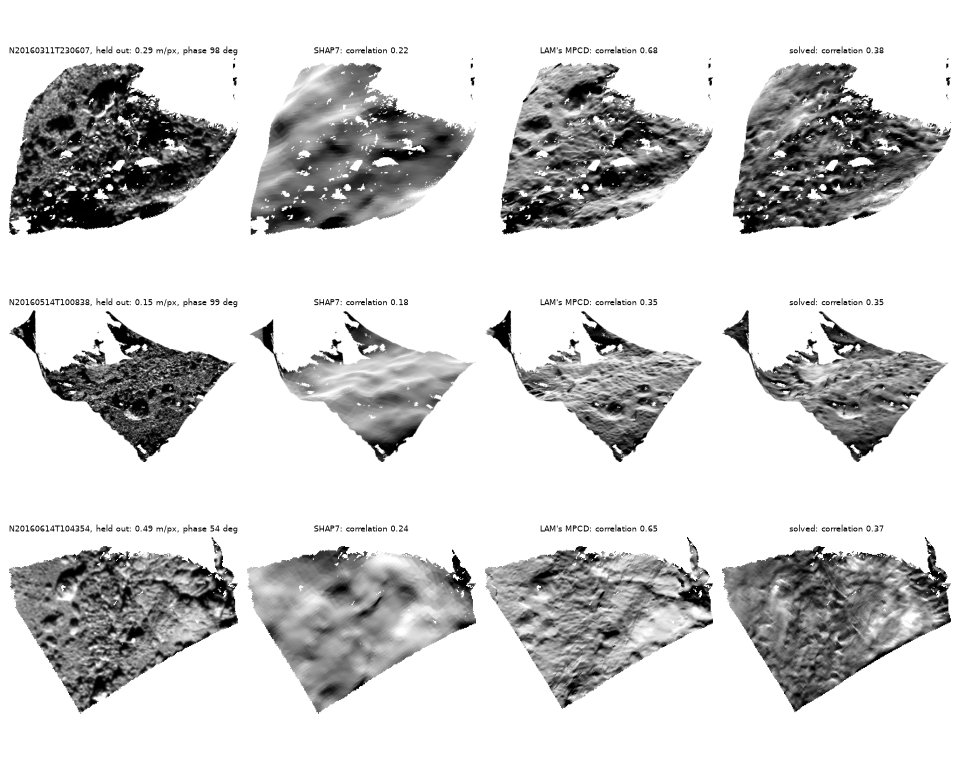
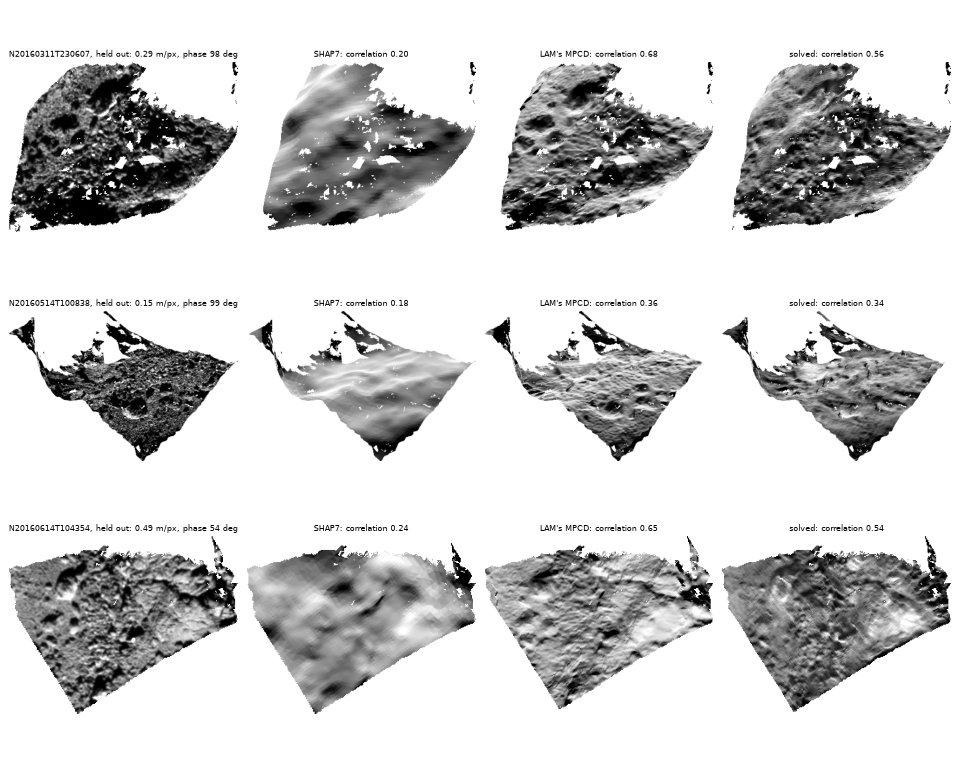
kalast.shape: each image weighs 1 - 0.75 cos(i), as SPC weighs them (incidence_weight, the default) -- a high Sun's images turned albedo into false relief that the low Sun's disagreed with; 67P held out 0.36 to 0.44, past LAM's MPCD at 0.41, and from MPCD the solver no longer leaves it; View(weight=

diff --git a/src/shape/solve.rs b/src/shape/solve.rs
@@ -62,6 +62,12 @@ pub struct Options {
     pub albedo_sigma: F,
     /// An offset per view as well as a scale: a background, a coma.
     pub offset: bool,
+    /// Each view weighs `1 - incidence_weight cos(i)`, `i` its Sun's
+    /// incidence on the maplet, as SPC weighs its images: under a high Sun
+    /// the shading says little of the slopes and much of the albedo, and an
+    /// albedo held near its neighbours' is read as slopes -- false relief
+    /// that a low Sun's images then disagree with. 0 for every view alike.
+    pub incidence_weight: F,
     /// What is darker than this share of its view's median is taken for a
     /// shadow the maplet does not cast -- from terrain beyond it, or relief
     /// it does not have yet -- and left out: read as slopes, an unmodelled
@@ -108,6 +114,7 @@ impl Default for Options {
             slope_sigma: 0.5,
             albedo_sigma: 0.3,
             offset: false,
+            incidence_weight: 0.75,
             dark: 0.1,
             direct: true,
             curvature: 0.002,
@@ -294,7 +301,7 @@ fn setup(view: &View, work: &Maplet, law: &Law, options: &Options, coarse: bool)
         pixel,
         window,
         radius,
-        weight: (s / pixel).powi(2).min(1.0),
+        weight: (s / pixel).powi(2).min(1.0) * view.weight * (1.0 - options.incidence_weight * w.dot(view.sun)).max(0.0),
     })
 }
 
@@ -323,8 +330,11 @@ fn look(view: &View, setup: &Setup, work: &Maplet, points: &[V3], normals: &[V3]
             let alpha = view.sun.dot(to_camera).clamp(-1.0, 1.0).acos();
             out.law[k] = setup.table.eval(mu0, mu, alpha).0;
         }
-        out.usable[k] = lit[k] && seen[k] && mu0 >= cos_i && mu >= cos_e && out.law[k] > 0.0;
-        out.shown[k] = seen[k] && mu >= cos_e;
+        // Where the shape model has no surface under the grid -- beyond a
+        // lobe's edge -- the heights are only filled in: nothing to compare.
+        let known = work.reference[k].is_finite();
+        out.usable[k] = known && lit[k] && seen[k] && mu0 >= cos_i && mu >= cos_e && out.law[k] > 0.0;
+        out.shown[k] = known && seen[k] && mu >= cos_e;
         out.lit[k] = lit[k] && mu0 > 0.0;
     }
     out
@@ -403,12 +413,20 @@ fn search_wide(view: &View, setup: &Setup, look: &Look, model: &[F], n: usize, s
         (model.to_vec(), mask.clone())
     };
     let m = (sg.round() as usize).max(1);
-    let points: Vec<usize> = (0..len).filter(|&k| (k % n).is_multiple_of(m) && (k / n).is_multiple_of(m) && mask[k] > 0.0 && weight[k] > 0.5).collect();
+    let [x0, y0, x1, y1] = setup.window;
+    let crop = Crop::new(view, x0, y0, x1, y1, sigma.max(0.35 * s / setup.pixel))?;
+    // On the image, from where the search starts give or take its reach.
+    let inside = |k: usize| {
+        let (x, y) = (look.xy[k][0] + start[0], look.xy[k][1] + start[1]);
+        x >= x0 - radius && x <= x1 + radius && y >= y0 - radius && y <= y1 + radius
+            && x >= -radius && y >= -radius && x <= view.width as F + radius && y <= view.height as F + radius
+    };
+    let points: Vec<usize> = (0..len)
+        .filter(|&k| (k % n).is_multiple_of(m) && (k / n).is_multiple_of(m) && mask[k] > 0.0 && weight[k] > 0.5 && inside(k))
+        .collect();
     if points.len() < 30 {
         return None;
     }
-    let [x0, y0, x1, y1] = setup.window;
-    let crop = Crop::new(view, x0, y0, x1, y1, sigma.max(0.35 * s / setup.pixel))?;
     let r = (radius / step).ceil() as i64;
     let mut best = (F::NEG_INFINITY, start);
     let (mut o, mut mm) = (Vec::with_capacity(points.len()), Vec::with_capacity(points.len()));
@@ -423,7 +441,7 @@ fn search_wide(view: &View, setup: &Setup, look: &Look, model: &[F], n: usize, s
                     mm.push(smooth[k]);
                 }
             }
-            if o.len() * 2 < points.len() {
+            if o.len() < 30 || o.len() * 4 < points.len() {
                 continue;
             }
             let c = correlation(&o, &mm);
@@ -449,8 +467,13 @@ fn register(
     offset_too: bool,
 ) -> Option<([F; 2], F, F)> {
     // The points seen, lit or in the maplet's shadow, the model nothing
-    // there: the shadows' pattern registers as well as the shading.
-    let points: Vec<usize> = (0..model.len()).filter(|&k| look.shown[k] && look.xy[k][0].is_finite()).collect();
+    // there: the shadows' pattern registers as well as the shading. Those
+    // on the image's valid pixels: a maplet wider than the image -- a
+    // context around a close image's footprint -- falls mostly beyond it.
+    let points: Vec<usize> = (0..model.len())
+        .filter(|&k| look.shown[k] && look.xy[k][0].is_finite())
+        .filter(|&k| setup.crop.sample(look.xy[k][0] + start[0], look.xy[k][1] + start[1]).is_some())
+        .collect();
     if points.iter().filter(|&&k| model[k] > 0.0).count() < 30 {
         return None;
     }
@@ -1079,6 +1102,7 @@ mod tests {
             focal: distance / pixel,
             centre: [size as F / 2.0, size as F / 2.0],
             sun: sun.normalize(),
+            weight: 1.0,
         }
     }
 

diff --git a/src/shape/py.rs b/src/shape/py.rs
@@ -28,6 +28,9 @@ fn err(e: String) -> PyErr {
 /// beyond it, terrain beyond it between it and the camera (a render of the
 /// shape model in this geometry has both: its lit pixels whose facet is
 /// among `Maplet.facets`) -- and stars, hot pixels, saturation.
+///
+/// `weight`, 1 by default, the view's share against the others: a fraction
+/// each for images taken seconds apart under one geometry.
 #[pyclass(name = "View", module = "kalast.shape", from_py_object)]
 #[derive(Clone)]
 pub struct View {
@@ -37,7 +40,7 @@ pub struct View {
 #[pymethods]
 impl View {
     #[new]
-    #[pyo3(signature = (image, position, axes, focal, sun, centre=None, valid=None, name=String::new()))]
+    #[pyo3(signature = (image, position, axes, focal, sun, centre=None, valid=None, name=String::new(), weight=1.0))]
     #[allow(clippy::too_many_arguments)]
     fn new(
         image: PyArrayLike2<'_, f32, AllowTypeChange>,
@@ -48,6 +51,7 @@ impl View {
         centre: Option<[f64; 2]>,
         valid: Option<PyArrayLike2<'_, u8, AllowTypeChange>>,
         name: String,
+        weight: f64,
     ) -> PyResult<Self> {
         let a = image.as_array();
         let (height, width) = (a.shape()[0], a.shape()[1]);
@@ -74,6 +78,7 @@ impl View {
             focal,
             centre: centre.unwrap_or([0.5 * width as f64, 0.5 * height as f64]),
             sun: sun.normalize_or_zero(),
+            weight,
         };
         inner.check().map_err(err)?;
         Ok(View { inner })
@@ -363,13 +368,16 @@ impl Maplet {
     /// `search` pixels away, or `reach` in the surface's unit if farther;
     /// `follow` moves the maplet where the views' pointing puts it. What is
     /// darker than `dark` of its view's lit ground is taken for a shadow the
-    /// maplet does not cast. Angles in radians. See
+    /// maplet does not cast. Each view weighs `1 - incidence_weight
+    /// cos(i)`, `i` its Sun's incidence on the maplet, as SPC weighs its
+    /// images: a high Sun's shading says more of the albedo than of the
+    /// slopes. Angles in radians. See
     /// `notes/2026-10-14_shape_from_images/` and
     /// `notes/2026-10-15_shape_direct/`.
     #[pyo3(signature = (
         views, law, iterations=6, levels=1, anchor=0.0, register=true, search=4.0, follow=true, reach=0.0, resolution=2.0,
         incidence=80.0 * super::RPD, emission=75.0 * super::RPD,
-        slope_sigma=0.5, albedo_sigma=0.3, offset=false, dark=0.1, direct=true, curvature=0.002, softness=0.6, shadows=1.0, stereo=1.0,
+        slope_sigma=0.5, albedo_sigma=0.3, offset=false, incidence_weight=0.75, dark=0.1, direct=true, curvature=0.002, softness=0.6, shadows=1.0, stereo=1.0,
         verbose=false
     ))]
     #[allow(clippy::too_many_arguments)]
@@ -391,6 +399,7 @@ impl Maplet {
         slope_sigma: f64,
         albedo_sigma: f64,
         offset: bool,
+        incidence_weight: f64,
         dark: f64,
         direct: bool,
         curvature: f64,
@@ -415,6 +424,7 @@ impl Maplet {
             slope_sigma,
             albedo_sigma,
             offset,
+            incidence_weight,
             dark,
             direct,
             curvature,

diff --git a/src/shape/view.rs b/src/shape/view.rs
@@ -36,6 +36,10 @@ pub struct View {
     pub centre: [F; 2],
     /// Toward the Sun from the surface, a unit vector in the body's frame.
     pub sun: V3,
+    /// The view's weight against the others, 1 by default: a share of it
+    /// for each of several images taken under one geometry, so that seconds
+    /// apart they count as one.
+    pub weight: F,
 }
 
 impl View {
@@ -88,6 +92,9 @@ impl View {
         }
         if !self.position.is_finite() {
             return Err(format!("view {name}: the camera's position is not finite"));
+        }
+        if !(self.weight >= 0.0 && self.weight.is_finite()) {
+            return Err(format!("view {name}: the weight is {}", self.weight));
         }
         Ok(())
     }
@@ -379,6 +386,7 @@ mod tests {
             focal: 100.0,
             centre: [50.0, 40.0],
             sun: V3::Z,
+            weight: 1.0,
         };
         view.check().unwrap();
         let (x, y, d) = view.project(V3::new(1.0, -0.5, 0.0)).unwrap();

diff --git a/notes/2026-10-15_shape_direct/README.md b/notes/2026-10-15_shape_direct/README.md
@@ -112,21 +112,27 @@ before. Scored on the held-out images where LAM's MPCD model of Abydos
 (0.4 m, Capanna et al.) covers the maplet, each model registered on each
 image on its own:
 
-| model | held out, median correlation |
-|---|---|
-| SHAP7 | 0.21-0.24 |
-| point by point at 0.25 m, 14 October | 0.34 |
-| fitted directly at 0.5 m, every year | 0.35 |
-| **fitted directly at 0.5 m, 2014 and 2016** | **0.36** |
-| LAM's MPCD | 0.40 |
+| model | held out, median correlation | at the model's scale |
+|---|---|---|
+| SHAP7 | 0.21-0.24 | 0.23 |
+| point by point at 0.25 m, 14 October | 0.34 | |
+| fitted directly at 0.5 m, every year | 0.35 | |
+| fitted directly at 0.5 m, 2014 and 2016 | 0.36 | 0.39 |
+| **the same, each image weighed by its Sun's incidence (below)** | **0.44** | **0.47** |
+| LAM's MPCD | 0.40-0.41 | 0.45 |
+
+"At the model's scale": the image and each drawing smoothed to half a
+spacing first, as SPC scores its models; at the images' own pixels every
+model loses what no 0.5 m grid holds.
 
 ![Three held-out images, SHAP7, LAM's MPCD and the solution drawn in them](wosret_held_out.jpg)
 
 `solve(..., iterations=12, levels=3, offset=True, reach=0.012,
 albedo_sigma=0.05, curvature=0.02)` on a maplet of 120 m at 0.5 m, 209
-images, 82 s. The solution draws the pits
-SHAP7 smooths over; MPCD draws them sharper, and its rims and scarps, where
-the solution is grainy.
+images, 60 s. The solution draws the pits SHAP7 smooths over, as MPCD does;
+MPCD's are sharper on 11 March and 14 June (0.65-0.67 against 0.52-0.55),
+the solution's closer on 13 December 2014 and 21 August 2016 (0.43-0.45
+against 0.40, 0.27 against 0.16).
 
 - **2015's images** cost a little (0.35 against 0.36 without them): the
   surface around perihelion, or their pointing at 100-200 km. 2016's alone,
@@ -144,10 +150,57 @@ the solution is grainy.
   does not see worse, 14 June's 0.48-0.58 to 0.35-0.47 at the same phase.
   Not the shadows' term (0.37 without), nor the parallax (0.37), nor the
   law's roughness (theta-bar halved, 0.36 from SHAP7 as at 24 deg): the
-  albedo frozen, 0.31; each view's shift frozen once found, 0.39. The
-  shifts and the heights fitting each other is part of it; what remains
-  is open. MPCD was likely built from these images, so its 0.40 is an
-  upper bound more than a held-out score.
+  albedo frozen, 0.31; each view's shift frozen once found, 0.39. MPCD
+  was likely built from these images, so its 0.40 is an upper bound more
+  than a held-out score.
+
+## Images under a high Sun
+
+What drew the solver away from MPCD, found by solving from MPCD with half
+the images each:
+
+| from MPCD, solved with | 5 March's fit (low Sun, 27 deg up, from the east) |
+|---|---|
+| nothing, MPCD itself | 0.57-0.63 |
+| the images at phase above 80 deg, the Sun low | 0.59 |
+| the images at phase below 70 deg, the Sun high | 0.36 |
+
+7-9 June's 21 images have the Sun 60 deg up: their shading barely moves with
+the slopes, and the albedo's real patches -- held near the neighbours' --
+are fitted as slopes, large ones for so little shading. That false relief
+is what a low Sun's images disagree with: the pits of 5 and 11 March, the
+14 June scarp. SPC weighs its images by `1 - 0.75 cos(i)` for this:
+`incidence_weight=0.75`, now the default, the Sun's incidence at the
+maplet's normal. A Sun 60 deg up weighs 0.35, one 27 deg up 0.66.
+
+- Held out, 0.36 to **0.44** (0.39 to 0.47 at the model's scale): past
+  MPCD's 0.41 (0.45). The weight is SPC's, not fitted to these images.
+- From MPCD, the solver no longer leaves it: 0.40 to 0.42 (0.44 to 0.48).
+- On the synthetic Wosret, pointed 6 m off, unchanged where the truth is
+  known: the relief's correlation 0.712 and 0.713, held out 0.73 and 0.75.
+- The albedo must stay held: freed (`albedo_sigma` 0.3) with the same
+  weights, 0.28.
+
+What did not help, tried first: each view's noise a fixed share of its lit
+ground rather than its residuals' spread (0.26); images seconds apart
+sharing one weight (0.35); images at 0.5 m a pixel or coarser only, MPCD's
+choice (0.34, 0.40 at the model's scale), with the albedo frozen as MPCD
+has it (0.27); no offset (0.35); fewer passes (0.30).
+
+## Each image's pointing from its whole footprint
+
+The review's first item, tried: every image registered once on a context of
+SHAP7 around the patch -- 600 m at 0.5 m, 1 km at 1 m for the coarser --
+over every lit pixel, then held fixed in the solve. 448 of 456 register,
+correlation 0.61; the corrections grow with distance, 5 m on the ground at
+0.05-0.3 m a pixel to 16 m at 2-5 m a pixel, and pairs seconds apart agree
+within a pixel, 1-3 pixels after a slew. But SHAP7 is too smooth to place
+the finest images -- pairs seconds apart disagree by 2-10 pixels there --
+and solved with every pointing held, 0.28. The registration in the solve,
+on the maplet as it grows, stays; the context places the coarse images.
+`solve` now leaves out points where the shape model has no surface under
+the grid, and a view's search counts only the points on its valid pixels:
+a maplet wider than a close image registers it.
 
 ## What the published models did that this does not
 
@@ -195,16 +248,14 @@ whose per-image offsets come on last).
 
 ## Open
 
-In order, from the review:
-
-1. Each image's pointing from its whole footprint against the global model,
-   under SPICE's priors and smooth in time, fixed during the height solve,
-   re-estimated in an outer loop.
-2. The images thinned to diverse geometry and binned to the grid's scale.
-3. The score at the model's scale, and split-data rebuilds.
-4. Facet normals, an edge-preserving prior, the offset and albedo held.
-5. 2016 alone with a looser reference, against the post-perihelion surface.
-6. Shadows that grow their casters.
+1. The weights chosen on these held-out images from here on want a second
+   set of days to choose on: split-data rebuilds, as Park et al. (2019).
+2. Facet normals and an edge-preserving prior: MPCD's rims are still the
+   sharper on 11 March and 14 June.
+3. Each image's pointing from many landmarks, as SPC: maplets around this
+   one, each image's correction shared by those it covers.
+4. 2016 alone with a looser reference, against the post-perihelion surface.
+5. Shadows that grow their casters.
 
 The pipeline stays in scratch until it reaches LAM's model; then the
 example. The coarser images' rows are kept in

diff --git a/CHANGELOG.md b/CHANGELOG.md
@@ -15,7 +15,7 @@ released, and the gate refuses the tag until it has.
 - `examples/didymos/main.py` draws Didymos and Dimorphos under the Hapke law Buratti et al. (2024) fitted to DART's images of the system, the light linear (`srgb_mode = "linear"`) and an exposure of 5.
 - `examples/comet67p_shadows_fit`: `hapke-fit` through the NAC's response (`response`) is 8 % brighter, w 0.0385: the response's halo takes light off lit ground, and the law was fitted without it.
 - `examples/comet67p_shadows_fit` downloads its images from ESA's Planetary Science Archive, which answers in a second where NASA's PDS Small Bodies Node took 16 and reset transfers.
-- `kalast.shape` derives a surface's relief finer than its shape model from the images that see it: `Maplet.from_surface` lays a grid of heights over a patch of the model, and `solve` registers every image to it and fits the heights and the albedo to what every image shows, lit or in shadow -- the shading through the body's scattering law, the cast shadows and the parallax -- held to the model at long wavelengths; `direct=False` reads each point's slopes from its shading instead, by stereophotoclinometry. `reach` lets an image's registration search metres on the ground, as far as a spacecraft's pointing is off. `View` takes an image and its camera; `render` draws a maplet as an image would show it; `mesh` gives it to draw.
+- `kalast.shape` derives a surface's relief finer than its shape model from the images that see it: `Maplet.from_surface` lays a grid of heights over a patch of the model, and `solve` registers every image to it and fits the heights and the albedo to what every image shows, lit or in shadow -- the shading through the body's scattering law, the cast shadows and the parallax -- held to the model at long wavelengths; `direct=False` reads each point's slopes from its shading instead, by stereophotoclinometry. `reach` lets an image's registration search metres on the ground, as far as a spacecraft's pointing is off; each image weighs by its Sun's incidence, as SPC weighs them (`incidence_weight`), and by its own `View(weight=...)`. `View` takes an image and its camera; `render` draws a maplet as an image would show it; `mesh` gives it to draw.
 
 ## v0.5.14
 

diff --git a/docs/API.md b/docs/API.md
@@ -1926,7 +1926,8 @@ proportional — each view's scale is fitted; `position` the camera's centre;
 `axes` the rows of a 3 x 3, `x` to the next column, `y` to the next row, `z`
 the boresight (mirrored is allowed, as an archive may store an image);
 `focal` in pixels; `centre` where the boresight falls, in pixels from the
-image's corner; `sun` toward the Sun. `valid`, true for the pixels to use,
+image's corner; `sun` toward the Sun; `weight`, 1 by default, its share
+against the others -- a fraction each for images seconds apart. `valid`, true for the pixels to use,
 carries what the maplet cannot see from its own grid: the shape model's
 shadows cast from beyond it, and terrain beyond it hiding it from the camera
 — a render of the shape model in that geometry, its lit pixels whose facet
@@ -1941,6 +1942,7 @@ is among `m.facets`.
 | `follow=True` | the maplet goes where the views' pointing puts it, each view weighed in ground units; off, its shape model holds it |
 | `direct=True`, `curvature=0.002`, `shadows=1.0`, `stereo=1.0`, `softness=0.6` | the heights fitted to the images directly; the curvature penalty (0.02 for real images' noise); the shadows' and the parallax's weights; a shadow's edge in spacings |
 | `albedo_sigma=0.3`, `offset=False`, `dark=0.1` | the albedo's freedom from its neighbours (log); an offset per view, for a coma; darker than this share of lit ground, a shadow the maplet does not cast |
+| `incidence_weight=0.75` | each view weighs `1 - incidence_weight cos(i)`, its Sun's incidence on the maplet, as SPC weighs images: a high Sun's shading says more of albedo than of slopes |
 | `m.render(view, law, oversample=3)` | the maplet as `view` sees it, its own shadows cast: synthetic images, or the solution beside the image |
 | `m.points()`, `m.normals()`, `m.mesh()`, `m.resampled(size, spacing)` | the grid in the body's frame, as a mesh, at another spacing |
 | `Report` | `views` (a `ViewReport` each: `used`, `pixel`, `shift`, `scale`, `points`, `residual`, `correlation`), and per pass `residual`, `change`, `spacing` |

diff --git a/notes/TIMELINE.md b/notes/TIMELINE.md
@@ -6269,4 +6269,10 @@ a better surface (the shifts co-adapting with the heights is part of it);
 the finer level; the example once the pipeline reaches MPCD. A review of
 how 67P, Bennu, Ryugu, Phobos, Dimorphos and the Moon were shaped: every
 pipeline fixes each image's pointing outside the shape solve, from the
-whole image under priors; next steps ranked in the write-up.
+whole image under priors; next steps ranked in the write-up. Then: images
+under a high Sun turned albedo into false relief, which the low-Sun images
+disagreed with -- what drew the solver away from MPCD. SPC's weighting,
+`1 - 0.75 cos(i)` per image, now the default (`incidence_weight`): held out
+0.36 to 0.44, past MPCD's 0.41; from MPCD the solver stays. Pointing held
+from SHAP7 over each image's footprint places the coarse images but not
+the finest: the registration in the solve stays.
